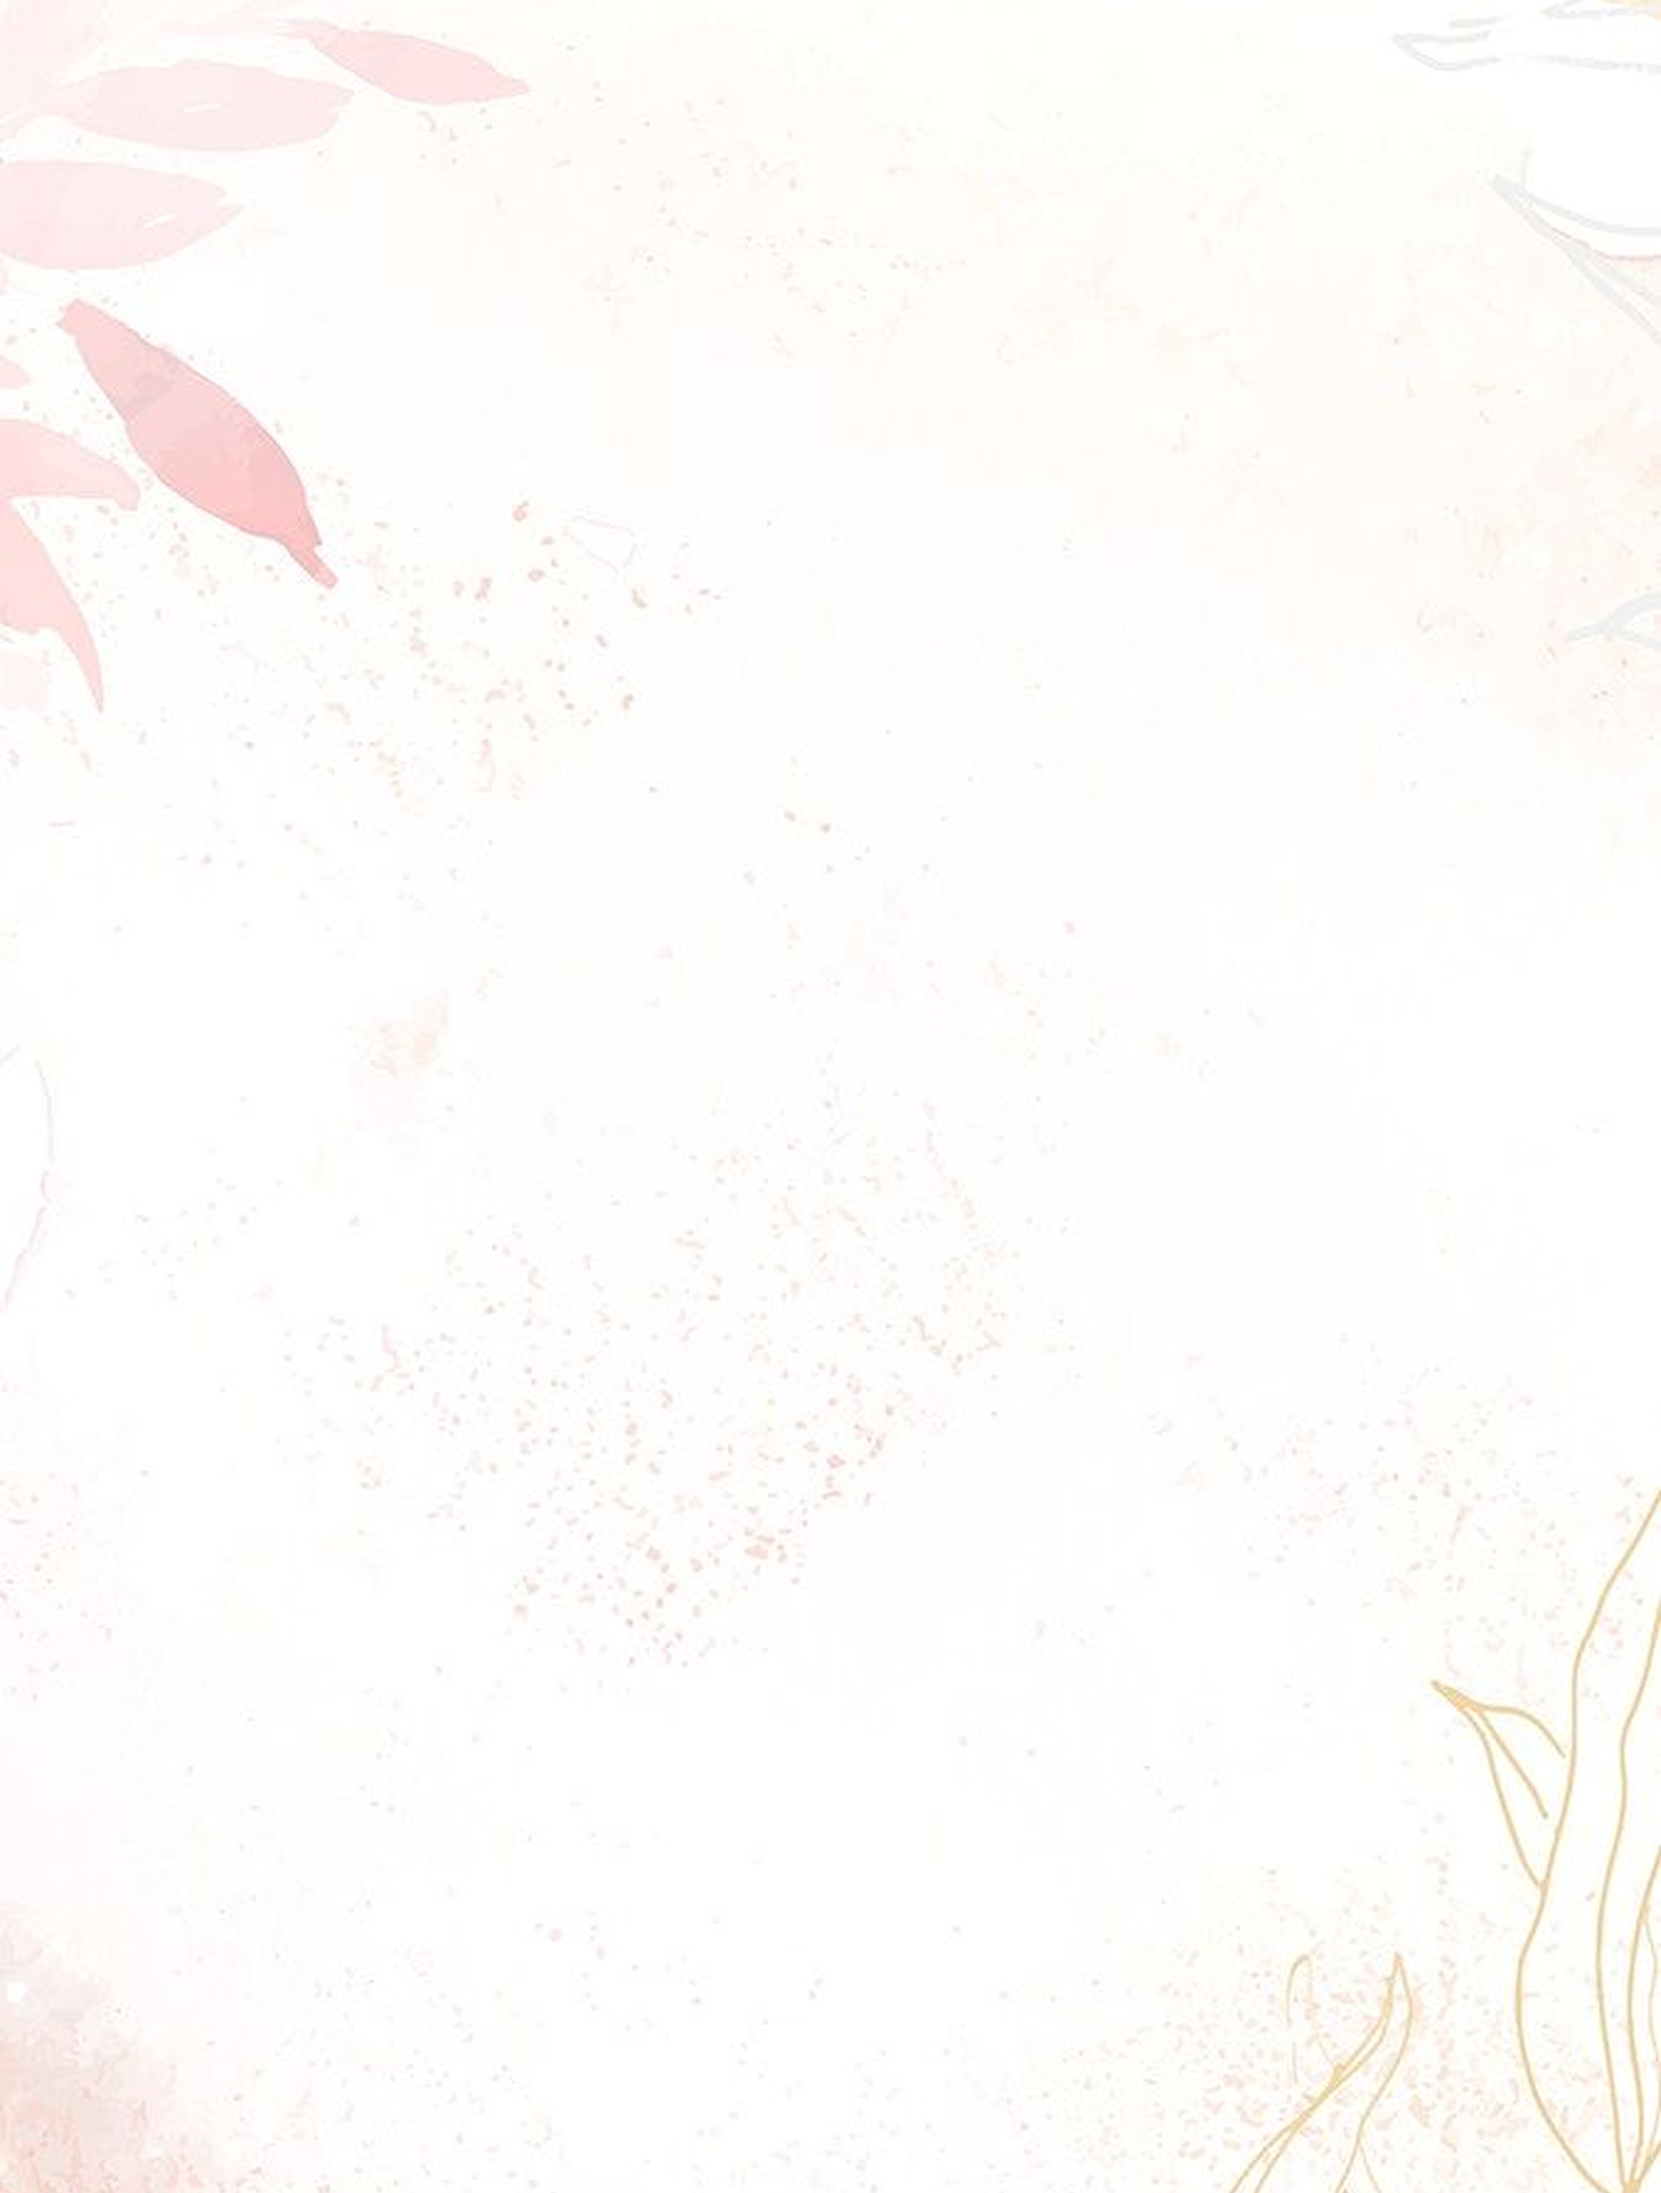
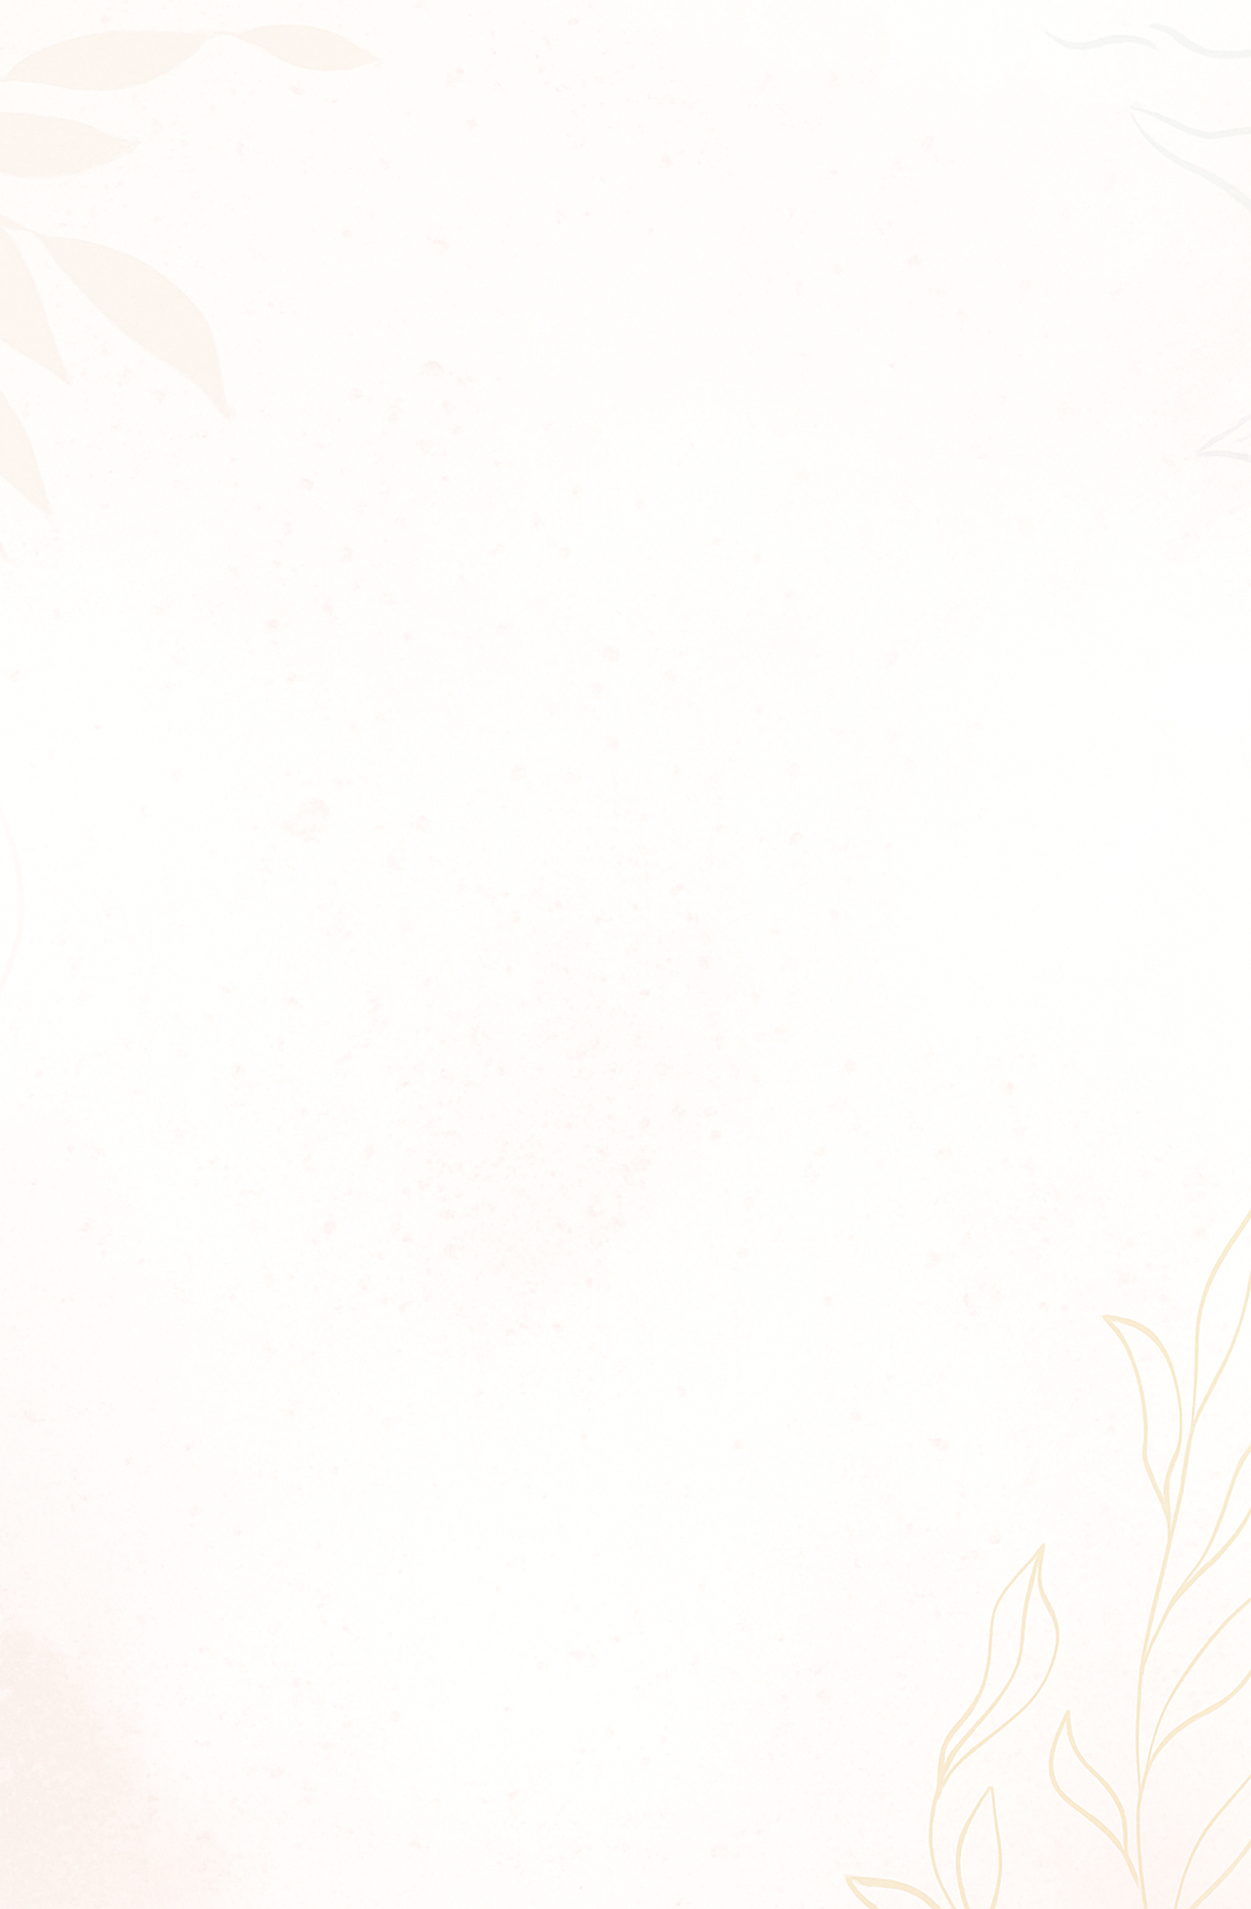
Add files via upload

diff --git a/магазин квітів/index.html b/магазин квітів/index.html
@@ -19,31 +19,33 @@
         <div class="aaa">
             <img src="foto/logo 1.png" alt="logo" class="logo">
             <div class="h_link">
-                <a href="#" class="link">Home</a>
-                <a href="#" class="link">About</a>
-                <a href="#" class="link">Catalog</a>
-                <a href="#" class="link">Contacts</a>
+                <a href="#home" class="link">Home</a>
+                <a href="#about" class="link">About</a>
+                <a href="#catalog" class="link">Catalog</a>
+                <a href="#contacts" class="link">Contacts</a>
             </div>
         </div>
         <div class="h2_links">
-            <a href="#" class="link">Log in</a>
-            <img src="foto/image.png" alt="image" width="45%" heigh="50%">
+            <a href="#" class="ff1">Log in</a>
+            <div class="ff"> <img src="foto/image.png" alt="image"></div>
         </div>
     </header>
 
-    <section class="banner">
+    <section class="banner" id="home">
         <p class="banner_text">Flower Garden</p>
         <a class="banner_hr" href="#" class="link">Sign up</a>
     </section>
 
-    <div class="main">
+    <div class="main" id="about">
         <div class="about">  <!--один загальний блок-->
               <p>About us</p>
               <p>We give people emotions that remind of the brightest</p>
               <p>events of life</p>       
         </div>   
+
+
        <!-- каталог -->
-        <div class="catalog">         <!--один загальний блок-->
+        <div class="catalog" id="catalog">         <!--один загальний блок-->
             <div class="ca">        <!--окремі блоки-->
                 <div class="fot">
                 </div>
@@ -51,7 +53,95 @@
                 <p class="cost"></p>
                 <div class="buy">buy</div>
             </div>
+            <div class="ca">        <!--окремі блоки-->
+                <div class="fot">
+                </div>
+                <div class="text"></div>
+                <p class="cost"></p>
+                <div class="buy">buy</div>
+            </div>
+            <div class="ca">        <!--окремі блоки-->
+                <div class="fot">
+                </div>
+                <div class="text"></div>
+                <p class="cost"></p>
+                <div class="buy">buy</div>
+            </div>
+            <div class="ca">        <!--окремі блоки-->
+                <div class="fot">
+                </div>
+                <div class="text"></div>
+                <p class="cost"></p>
+                <div class="buy">buy</div>
+            </div>
+            <div class="ca">        <!--окремі блоки-->
+                <div class="fot">
+                </div>
+                <div class="text"></div>
+                <p class="cost"></p>
+                <div class="buy">buy</div>
+            </div>
+            <div class="ca">        <!--окремі блоки-->
+                <div class="fot">
+                </div>
+                <div class="text"></div>
+                <p class="cost"></p>
+                <div class="buy">buy</div>
+            </div>
+            <div class="ca">        <!--окремі блоки-->
+                <div class="fot">
+                </div>
+                <div class="text"></div>
+                <p class="cost"></p>
+                <div class="buy">buy</div>
+            </div>
+            <div class="ca">        <!--окремі блоки-->
+                <div class="fot">
+                </div>
+                <div class="text"></div>
+                <p class="cost"></p>
+                <div class="buy">buy</div>
+            </div>
+            <div class="ca">        <!--окремі блоки-->
+                <div class="fot">
+                </div>
+                <div class="text"></div>
+                <p class="cost"></p>
+                <div class="buy">buy</div>
+            </div>
+            <div class="ca">        <!--окремі блоки-->
+                <div class="fot">
+                </div>
+                <div class="text"></div>
+                <p class="cost"></p>
+                <div class="buy">buy</div>
+            </div>
+            <div class="ca">        <!--окремі блоки-->
+                <div class="fot">
+                </div>
+                <div class="text"></div>
+                <p class="cost"></p>
+                <div class="buy">buy</div>
+            </div>
+            <div class="ca">        <!--окремі блоки-->
+                <div class="fot">
+                </div>
+                <div class="text"></div>
+                <p class="cost"></p>
+                <div class="buy">buy</div>
+            </div>
+            <div class="ca">        <!--окремі блоки-->
+                <div class="fot">
+                </div>
+                <div class="text"></div>
+                <p class="cost"></p>
+                <div class="buy">buy</div>
+            </div>
+            
         </div>
+
+
+
         <!-- коментарі -->
         </div>
             <div class="all">                   <!--один загальний блок-->
@@ -73,7 +163,7 @@
 
     <hr>
 
-        <div class="info">
+        <div class="info" id="contacts">
             <div class="info_t">
              <img src="foto/logo 1.png" alt="logo 1">
             </div>

diff --git a/магазин квітів/style.css b/магазин квітів/style.css
@@ -12,9 +12,11 @@ padding: 0;
 }
 
 hr{
-    margin: 0 0 0 0;
+    margin: 0;
+    padding: 0;
     height: 3px;
-    color: black;
+    background-color: black;
+    border: black;
 }
 
 .about{
@@ -25,7 +27,7 @@ header{
     width: 100%;
     height: 6%;
     padding: 1%;
-    background-color: #E6B3B3;
+    background-color: #E6A7A7;
     display: flex;
     justify-content: space-between;
     align-items: center;
@@ -50,11 +52,24 @@ header{
 .h_link{
     padding-left: 3%;
     display: flex;
-    pudding: 10% 0 10% 0;
 }
 
 .h2_links{
-    padding: 20% 3%;
+    padding: 3%;
+    display: flex;
+}
+
+.ff{
+    border: solid black 1px;
+    border-radius: 40px;
+    display: flex;
+}
+
+.ff1{
+    padding: 10% 13% 0 0;
+    font-size: 1.3em;
+    color: white;
+    display: inline-block;
 }
 
 .link{
@@ -69,7 +84,7 @@ header{
     /* padding-top: 100px; */
     width: 100%;
     height: 700px;
-    background-image: url(foto/imagebg.png);
+    background-image: url(foto/imagebg.jpg);
     background-size: cover;
     background-position: center;
     display: flex;
@@ -80,7 +95,7 @@ header{
 }
 
 .banner_hr{
-    background-color: #E6B3B3;
+    background-color: #E6A7A7;
     border-radius: 60px;
     padding: 1.2% 5%;
     font-size: 2em;
@@ -95,7 +110,7 @@ header{
 
 /* основа */
 .main{
-    height: 2168px;
+    height: 2307px;
     width: 100%;
     background-image: url(foto/bg.png);
     background-color: yellow;
@@ -106,16 +121,17 @@ header{
     padding: 8%;
     font-family: "Island Moments";
     font-size: 4em;
+    margin: 5%;
 }
 
-/* каталог */
+  /* каталог */
 .catalog{
+    padding: 0 20%;
     display: flex;
     flex-wrap: wrap;
     gap: 50px;
     align-items: center;
-    justify-content: center;
-    margin: 7% 7% 0 7%;
+    
   }
   .ca{
     width: 210px;
@@ -147,7 +163,7 @@ header{
     background-color: #E6A7A7;
 }
   }
-  /* каталог */
+  /* коментарі */
 
 .comm{
     padding: 1.5% 0 10% 0;
